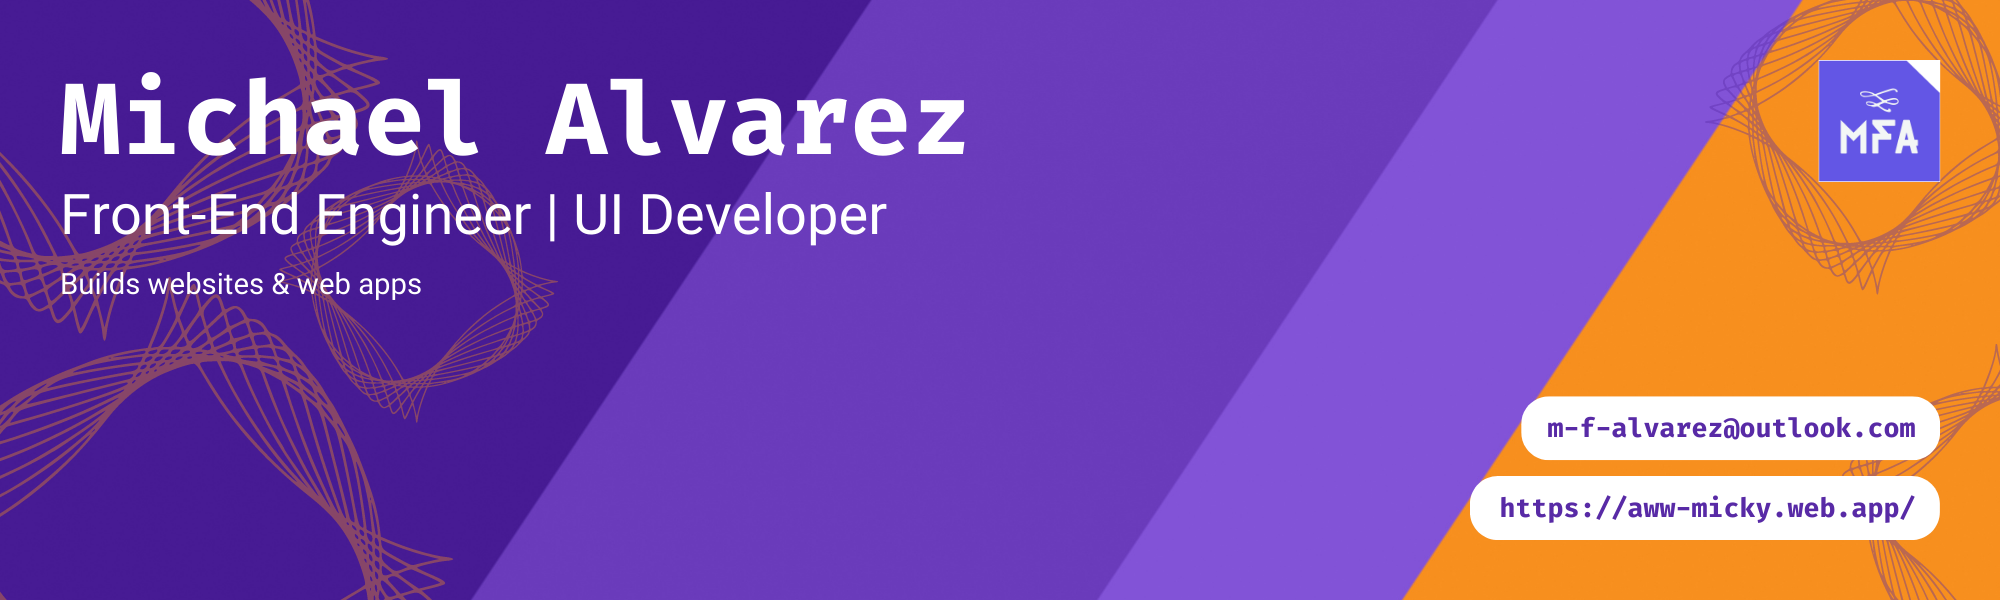
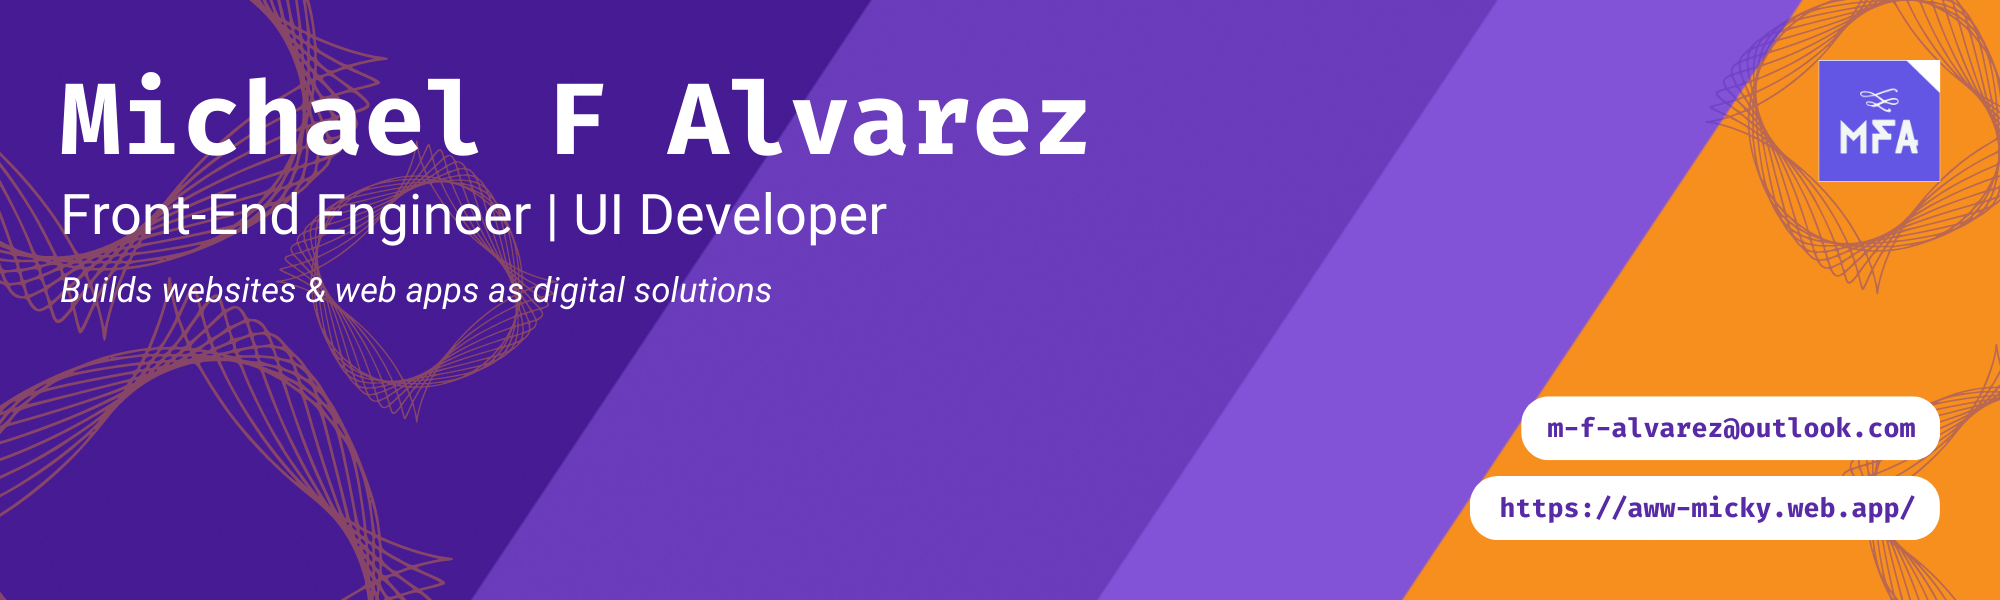
update README

Changed region(s): [[0.248, 0.12, 0.558, 0.27], [0.031, 0.45, 0.403, 0.51]]

diff --git a/README.md b/README.md
@@ -1,8 +1,9 @@
-![🎈](./assets/images/banner.png)
+![🎈](./assets/images/banner-tech.png)
 # Hola, nice to meet ya <img alt="👋" width="30" src="./assets/gifs/wave.gif" />
 
 [ ![💭 Ask Me Anything][ama-badge] ][ama-link]
-[ ![👀 Click Any Badge][source-badge] ][source-link]
+[ ![👀 Click Any Badge][shield-badge] ][shield-link]
+[ ![🤍 Open Source Software][oss-badge] ][oss-link]
 
 `(╯°□°)╯彡 ┻━┻ ` _ `๑๑๑  ﾐ ʕ•ᴥ•;ʔ`
 
@@ -10,7 +11,7 @@
 
 ```js
 const Michael_F_Alvarez = {
-  summary    : 'I build React UI libraries and features ready for scalability.',
+  summary    : 'I build websites & web apps as digital solutions using Next.js & React.',
   roles      : [ 'Front-End Engineer', 'UI Developer', 'Design Thinking' ],
   interests  : [ 'JAM Stack', 'Serverless Functions', 'Headless CMS' ],
   key_values : [ 'curious', 'collaborative', 'creative' ],
@@ -21,7 +22,9 @@ const Michael_F_Alvarez = {
 
 ![<hr />][hr-snapshot]
 
-## My daily tools <img alt="🌎" width="30" src="./assets/gifs/earth.gif" />
+## What I know <img alt="🌎" width="30" src="./assets/gifs/earth.gif" />
+
+### Tools I use daily
 
 <a 
 target="_blank" 
@@ -29,10 +32,21 @@ title="open 'skill icons' repo"
 href="https://github.com/tandpfun/skill-icons#readme">
   <img 
   alt="skill-icons" 
-  src="https://skillicons.dev/icons?i=ts,react,nextjs,tailwind,figma,vscode,git" 
+  src="https://skillicons.dev/icons?i=nextjs,ts,react,tailwind,sass,figma,vscode,git" 
   />
 </a>
 
+### Tools I want to learn
+
+<a 
+target="_blank" 
+title="open 'skill icons' repo" 
+href="https://github.com/tandpfun/skill-icons#readme">
+  <img 
+  alt="skill-icons" 
+  src="https://skillicons.dev/icons?i=graphql,apollo,prisma,jest,redis,aws"
+  />
+</a>
 
 <details>
 <summary>
@@ -82,27 +96,32 @@ JSON Server     :: api data prototyping
 
 <details>
 <summary>
-<b>What I am interested in learning?</b>
+<b>What I am interested to try out?</b>
 </summary>
 <br />
 
 | | |
 | ---- | ---- |
 | JAM Stack  | [ ![jam-stack][jam-stack-badge] ][jam-stack-link] |
-| TypeScript | [ ![typescript][typescript-badge] ][typescript-link] |
-| Next.js    | [ ![next.js][next.js-badge] ][next.js-link] |
 | Storybook  | [ ![storybook][storybook-badge] ][storybook-link] |
 | GraphQL    | [ ![graphql][graphql-badge] ][graphql-link] |
 | Apollo     | [ ![apollo][apollo-badge] ][apollo-link] |
+| Prisma     | [ ![prisma][prisma-badge] ][prisma-link] |
 | Jest       | [ ![jest][jest-badge] ][jest-link] |
 | Cypress    | [ ![cypress][cypress-badge] ][cypress-link] |
 | Playwright | [ ![playwright][playwright-badge] ][playwright-link] |
+
+<!--  
+Sanity.io
+Contentful
+Strapi
+-->
 
 </details>
 
 <details>
 <summary>
-<b>What I want to start experimenting?</b>
+<b>What really grabs my attention?</b>
 </summary>
 <br />
 
@@ -121,11 +140,11 @@ JSON Server     :: api data prototyping
 </summary>
 <br />
 
-- how to specialize in dynamic form management?~
 - how to type check global state data, async data, form data?~
 - how to build content structure web apps w/ only Front-End tech?~
 - how to launch a web app while tracking server cost?
-- how to use niche-tech: Sanity.io, Contenful, Strapi, Prisma, PlanetScale, tRPC?~
+- how to launch a web app while checking data analytics?
+- how to use: Sanity.io, Contenful, Strapi, Prisma, PlanetScale, tRPC?~
 
 </details>
 
@@ -195,14 +214,19 @@ href="https://github.com/Platane/snk#readme">
 
 [hr-snapshot]: https://capsule-render.vercel.app/api?type=rect&color=gradient&height=2.5
 
-
-
 <!-- === TOP ===  -->
 
+<!-- ama -->
 [ama-link]: https://github.com/awwmicky/awwmicky/issues/new
 [ama-badge]: https://img.shields.io/badge/Ask_me-💭_Anything-33CC99
-[source-link]: https://shields.io/
-[source-badge]: https://img.shields.io/badge/Click_any_badges-👀_For_resources-FFFFFF
+<!-- shield -->
+[shield-link]: https://shields.io/
+[shield-badge]: https://img.shields.io/badge/Click_any_badges-👀_For_resources-FFFFFF
+<!-- oss -->
+[oss-link]: https://github.com/ellerbrock/open-source-badges/
+[oss-badge]: https://badges.frapsoft.com/os/v2/open-source.svg
+
+<!-- === SOCIAL === -->
 
 <!-- Portfolio -->
 [portfolio-link]: https://rebrand.ly/michael-f-alvarez__portfolio
@@ -232,9 +256,7 @@ href="https://github.com/Platane/snk#readme">
 [gh-page-badge]: https://img.shields.io/badge/GH_PAGE-222222?labelColor=333333&logoColor=FFFFFF&style=flat&logo=github
 [gh-readme-badge]: https://img.shields.io/badge/GH_README-222222?labelColor=333333&logoColor=FFFFFF&style=flat&logo=github
 
-
-
-<!-- === LINK + BADGE === -->
+<!-- === TECHNOLOGIES === -->
 
 <!-- Vite -->
 
@@ -320,6 +342,10 @@ href="https://github.com/Platane/snk#readme">
 
 [apollo-link]: https://apollographql.com/
 [apollo-badge]: https://img.shields.io/badge/Apollo-311C87?logoColor=FFFFFF&style=flat-square&logo=apollo-graphql
+
+<!-- Prisma -->
+[prisma-link]: https://www.prisma.io/
+[prisma-badge]: https://img.shields.io/badge/Prisma-2D3748?logoColor=FFFFFF&style=flat-square&logo=prisma
 
 <!-- Jest -->
 
